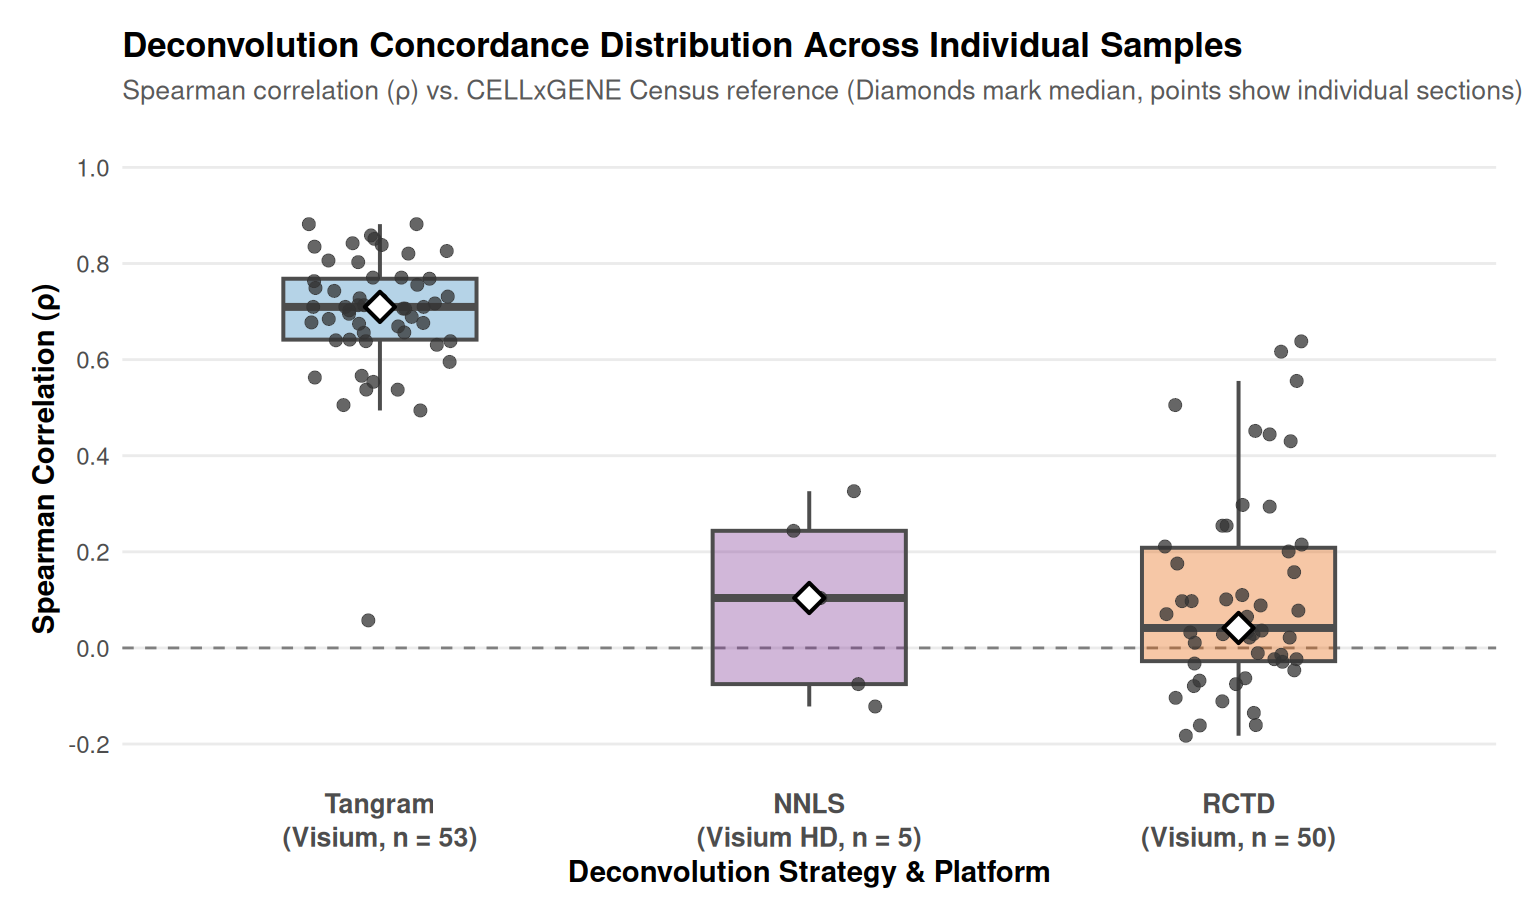
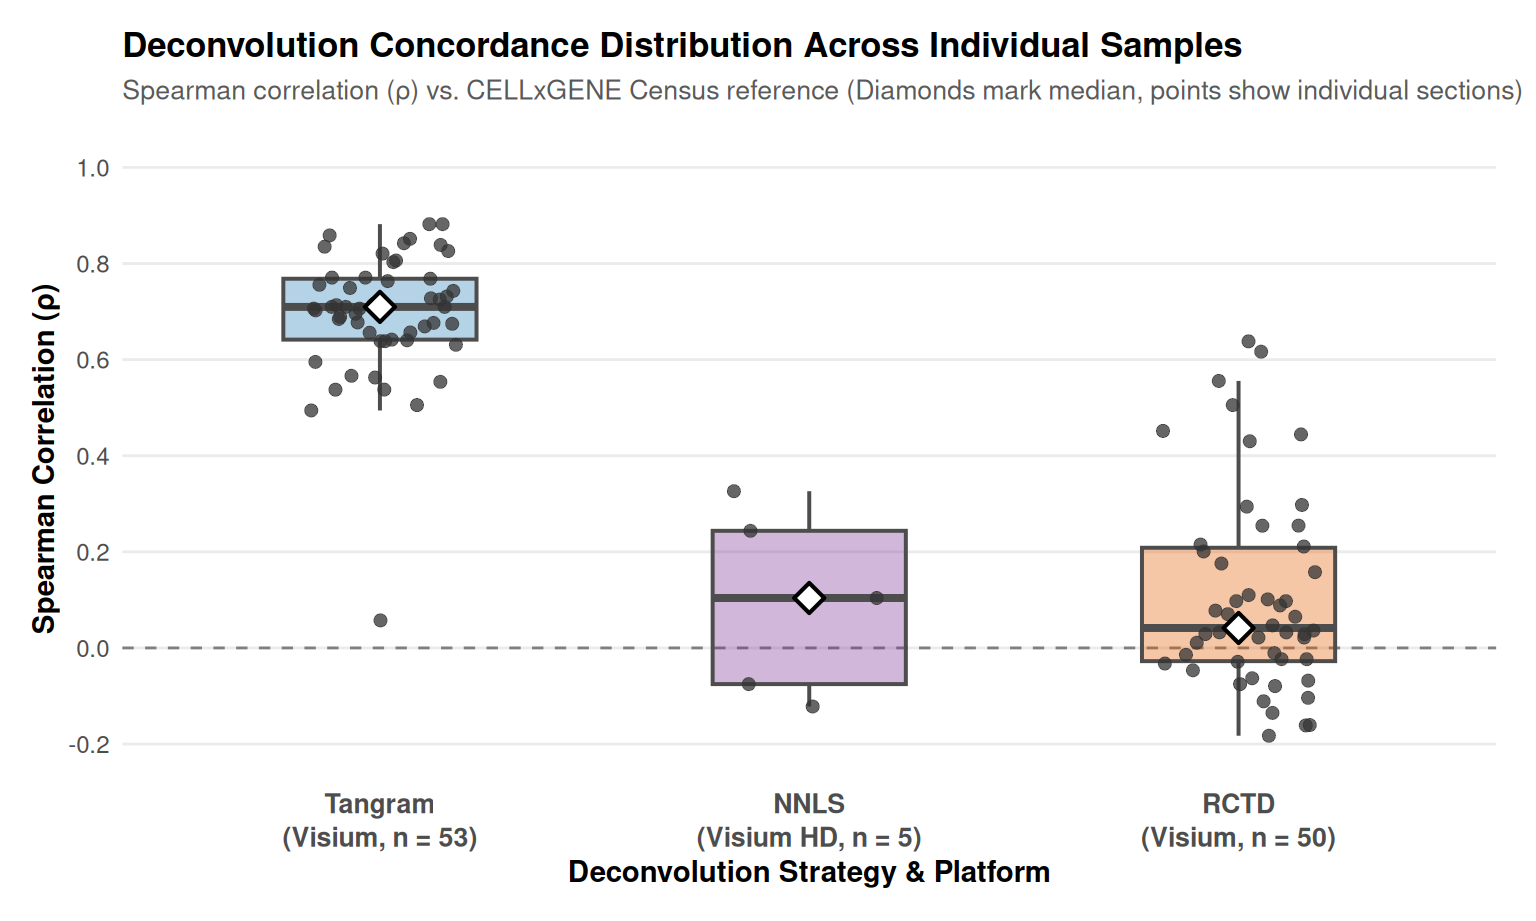
Renal spatial img credit

diff --git a/cases/renalspatial/01_data_at_hand.html b/cases/renalspatial/01_data_at_hand.html
@@ -543,8 +543,8 @@ analysis is built around.</p>
 <div id="the-quality-of-the-data-sample-by-sample"
 class="section level2">
 <h2>The quality of the data, sample by sample</h2>
-<div class="datatables html-widget html-fill-item" id="htmlwidget-0c2be0e70e4a9f6d4a1e" style="width:100%;height:auto;"></div>
-<script type="application/json" data-for="htmlwidget-0c2be0e70e4a9f6d4a1e">{"x":{"filter":"none","vertical":false,"caption":"<caption>All samples: units, genes, and per-unit QC.<\/caption>","data":[["GSM8551262","GSM8551263","GSM8551264","GSM8323120","GSM8323121","GSM8323122","GSM8323123","GSM8323124","GSM8323125","GSM8325615","GSM8325616","GSM8325617","GSM8325618","GSM8325619","GSM8325620","GSM8325621","GSM8325622","GSM8325623","GSM8325624","GSM8325625","GSM8325626","GSM8110784","GSM8110785","GSM8110786","GSM8110787","GSM8691119","GSM8691120","GSM8691121","GSM8691122","GSM8691123","GSM8691124","GSM8691125","GSM9045323","GSM9108683","GSM9108684","GSM9108685","GSM9155022","GSM9155023","GSM9155024","GSM9155025","GSM9231917","GSM9231918","GSM9231919","GSM9231920","GSM9231921","GSM9231922","GSM9231923","GSM9231924","GSM9231925","GSM9231926","GSM9231927","GSM9231928","GSM9247127","GSM9247128","GSM9247129","GSM9247130","GSM9247131","GSM9247132","GSM9247133","GSM9247134","GSM9247135","GSM9247136","GSM9247137","GSM9247138","GSM9467249","GSM9467250","GSM9467251","GSM9467252","GSM9579055","GSM9579056","GSM9579057","GSM9579058","GSM9802211","GSM9895920","GSM9895921","GSM9895922","GSM9895923","GSM9938089","GSM9938090","GSM9938091","GSM9938092","GSM9938093","GSM9938094","GSM9938095","GSM9938096","GSM9938097","GSM9938098","GSM9938099","GSM9938100","GSM9938101","GSM9938102","GSM9938103","GSM9938104","GSM9938105","GSM9938106","GSM9938107","GSM9938108","GSM9938109","GSM9938110","GSM9938111","GSM9938112","GSM9938113","GSM9938114","GSM9938115","GSM9938116","GSM9938117","GSM9938118","GSM9938119","GSM9938120","GSM9938121","GSM9938122","GSM9938123","GSM9938124","GSM9938125","GSM9938126","GSM9938127","GSM9938128","GSM9938129","GSM9938130","GSM9938131","GSM9938132","GSM9938133","GSM9938134","GSM9938135","GSM9938136","GSM9026963","GSM6047778","GSM6047779"],["human-kidney-dev","human-kidney-dev","human-kidney-dev","mouse-IRI-repair","mouse-IRI-repair","mouse-IRI-repair","mouse-IRI-repair","mouse-IRI-repair","mouse-IRI-repair","mouse-IRI-repair","mouse-IRI-repair","mouse-IRI-repair","mouse-IRI-repair","mouse-IRI-repair","mouse-IRI-repair","mouse-IRI-repair","mouse-IRI-repair","mouse-IRI-repair","mouse-IRI-repair","mouse-IRI-repair","mouse-IRI-repair","hyperuricemia-mouse","hyperuricemia-mouse","hyperuricemia-mouse","hyperuricemia-mouse","kidney-transplant-rejection","kidney-transplant-rejection","kidney-transplant-rejection","kidney-transplant-rejection","kidney-transplant-rejection","kidney-transplant-rejection","kidney-transplant-rejection","kidney-repair-matrix","ANCA-vasculitis","ANCA-vasculitis","ANCA-vasculitis","transplant-rejection-FCGR3A","transplant-rejection-FCGR3A","transplant-rejection-FCGR3A","transplant-rejection-FCGR3A","DKD-MEF2C","DKD-MEF2C","DKD-MEF2C","DKD-MEF2C","DKD-MEF2C","DKD-MEF2C","DKD-MEF2C","DKD-MEF2C","DKD-MEF2C","DKD-MEF2C","DKD-MEF2C","DKD-MEF2C","EPO-cell-neighborhood","EPO-cell-neighborhood","EPO-cell-neighborhood","EPO-cell-neighborhood","EPO-cell-neighborhood","EPO-cell-neighborhood","EPO-cell-neighborhood","EPO-cell-neighborhood","EPO-cell-neighborhood","EPO-cell-neighborhood","EPO-cell-neighborhood","EPO-cell-neighborhood","DKD-HIF-SGLT2i","DKD-HIF-SGLT2i","DKD-HIF-SGLT2i","DKD-HIF-SGLT2i","lupus-nephritis-mouse","lupus-nephritis-mouse","lupus-nephritis-mouse","lupus-nephritis-mouse","CAMR-scRNA-VisiumHD","hypertensive-nephropathy","hypertensive-nephropathy","hypertensive-nephropathy","hypertensive-nephropathy","CAMR-GeoMx","CAMR-GeoMx","CAMR-GeoMx","CAMR-GeoMx","CAMR-GeoMx","CAMR-GeoMx","CAMR-GeoMx","CAMR-GeoMx","CAMR-GeoMx","CAMR-GeoMx","CAMR-GeoMx","CAMR-GeoMx","CAMR-GeoMx","CAMR-GeoMx","CAMR-GeoMx","CAMR-GeoMx","CAMR-GeoMx","CAMR-GeoMx","CAMR-GeoMx","CAMR-GeoMx","CAMR-GeoMx","CAMR-GeoMx","CAMR-GeoMx","CAMR-GeoMx","CAMR-GeoMx","CAMR-GeoMx","CAMR-GeoMx","CAMR-GeoMx","CAMR-GeoMx","CAMR-GeoMx","CAMR-GeoMx","CAMR-GeoMx","CAMR-GeoMx","CAMR-GeoMx","CAMR-GeoMx","CAMR-GeoMx","CAMR-GeoMx","CAMR-GeoMx","CAMR-GeoMx","CAMR-GeoMx","CAMR-GeoMx","CAMR-GeoMx","CAMR-GeoMx","CAMR-GeoMx","CAMR-GeoMx","CAMR-GeoMx","CAMR-GeoMx","CAMR-GeoMx","kidney-PT-regen","kidney-PT-regen","kidney-PT-regen"],["cosmx","cosmx","cosmx","visium","visium","visium","visium","visium","visium","xenium","xenium","xenium","xenium","xenium","xenium","xenium","xenium","xenium","xenium","xenium","xenium","visium","visium","visium","visium","xenium","xenium","xenium","xenium","xenium","xenium","xenium","visium","visium","visium","visium","visium","visium","visium","visium","visium","visium","visium","visium","visium","visium","visium","visium","visium","visium","visium","visium","visium","visium","visium","visium","visium","visium","visium","visium","visium","visium","visium","visium","visium_hd","visium_hd","visium_hd","visium_hd","visium","visium","visium","visium","visium_hd","visium","visium","visium","visium","geomx","geomx","geomx","geomx","geomx","geomx","geomx","geomx","geomx","geomx","geomx","geomx","geomx","geomx","geomx","geomx","geomx","geomx","geomx","geomx","geomx","geomx","geomx","geomx","geomx","geomx","geomx","geomx","geomx","geomx","geomx","geomx","geomx","geomx","geomx","geomx","geomx","geomx","geomx","geomx","geomx","geomx","geomx","geomx","geomx","geomx","geomx","geomx","visium","visium","visium"],[230536,127022,118188,2855,3085,3392,3434,2754,3912,110946,84141,99679,113560,108757,112011,101118,96601,152366,147595,152437,126104,2650,2590,2528,3362,36680,35806,40136,49288,44837,35699,45779,3134,1413,892,1277,1048,1348,992,1129,1865,1373,437,977,531,1203,1682,1394,1479,4608,1929,4569,4024,4439,4290,4759,4768,4509,4808,4615,4726,4927,4330,4257,55464,68732,56779,112893,3345,3205,3336,3313,129552,4064,4826,4913,4031,1,1,1,1,1,1,1,1,1,1,1,1,1,1,1,1,1,1,1,1,1,1,1,1,1,1,1,1,1,1,1,1,1,1,1,1,1,1,1,1,1,1,1,1,1,1,1,1,992,950,1028],[995,995,995,19245,19248,19261,19278,19292,19283,300,299,300,300,300,300,300,300,300,300,300,300,17716,17760,17353,17528,541,541,541,541,541,541,541,15503,17315,17100,20398,18009,17997,17926,17863,15492,15292,18028,18045,18044,18056,18006,15288,15587,18053,18030,18046,16350,16469,15708,16026,15967,15786,15400,15252,15669,15804,16267,16115,15283,15635,15613,16200,16563,16539,15643,15558,15348,18826,18847,18898,18897,16916,18068,18551,18215,18684,17728,17852,18614,18274,18720,18551,18723,18473,18722,18076,18117,18247,18026,18236,18670,18720,18728,18729,18609,18664,18661,18696,18691,18511,18693,18490,18722,18727,18610,18709,18681,18730,18730,18656,18717,18680,18708,18517,18708,18726,18730,18730,18723,15006,15903,16233],[101,72,58,5299,5474,5300.5,6310,7856,5392,35,37,47,46,44,44,53,51,44,39,46,47,4487.5,4728.5,5978.5,5627.5,159,167,211,203,194,187,201,7160,1428,1704.5,5103,3570,1189,3860,2113,4152,4671,8935,10393,9884,9725,5397,2216.5,3483,7502.5,3236,2338,374,432,729,2131,4935.5,3395,3496.5,2956,2428,4030,757.5,459,55,42,44,43,1797,1729,934.5,834,129,54.5,160.5,72,61,16916,18068,18551,18215,18684,17728,17852,18614,18274,18720,18551,18723,18473,18722,18076,18117,18247,18026,18236,18670,18720,18728,18729,18609,18664,18661,18696,18691,18511,18693,18490,18722,18727,18610,18709,18681,18730,18730,18656,18717,18680,18708,18517,18708,18726,18730,18730,18723,1567,2301.5,2384.5],[144,95,76,11933,20000,15083.5,21096,23222.5,18169,88,104,144,135,125,127,153,140,104,80,126,131,16674,19599.5,37386,32038.5,2561,2681,3163,2849,2693,2508,2506,36954.5,3062,3204.5,16631,5761.5,1689.5,7178.5,3605,9274,10255,28761,47211,39539,40878,15017.5,3900.5,6928,22307,5794,3862,431.5,498,1043,4123,16015.5,7037,8062,6300,4912.5,9628,946,547,59,44,46,45,3271,3105,1437,1198,147,59,176,75,65,68998,118515,162799,132662,255664,99603,95321,143282,103849,260137,123114,250219,108683,250585,80498,86681,94530,74567,80663,131516,200122,248182,245531,135963,143566,133399,157397,160704,101602,179882,111102,209536,225437,111018,162018,140383,358600,1873987,125948,251586,197825,234604,108856,217968,304691,463283,408485,207770,2532.5,3560,4204]],"container":"<table class=\"display\">\n  <thead>\n    <tr>\n      <th>gsm<\/th>\n      <th>study<\/th>\n      <th>tier<\/th>\n      <th>n_units<\/th>\n      <th>n_genes<\/th>\n      <th>median_genes<\/th>\n      <th>median_counts<\/th>\n    <\/tr>\n  <\/thead>\n<\/table>","options":{"pageLength":25,"lengthMenu":[25,50,100],"columnDefs":[{"className":"dt-right","targets":[3,4,5,6]},{"name":"gsm","targets":0},{"name":"study","targets":1},{"name":"tier","targets":2},{"name":"n_units","targets":3},{"name":"n_genes","targets":4},{"name":"median_genes","targets":5},{"name":"median_counts","targets":6}],"order":[],"autoWidth":false,"orderClasses":false}},"evals":[],"jsHooks":[]}</script>
+<div class="datatables html-widget html-fill-item" id="htmlwidget-0eb632de7eebf4965a02" style="width:100%;height:auto;"></div>
+<script type="application/json" data-for="htmlwidget-0eb632de7eebf4965a02">{"x":{"filter":"none","vertical":false,"caption":"<caption>All samples: units, genes, and per-unit QC.<\/caption>","data":[["GSM8551262","GSM8551263","GSM8551264","GSM8323120","GSM8323121","GSM8323122","GSM8323123","GSM8323124","GSM8323125","GSM8325615","GSM8325616","GSM8325617","GSM8325618","GSM8325619","GSM8325620","GSM8325621","GSM8325622","GSM8325623","GSM8325624","GSM8325625","GSM8325626","GSM8110784","GSM8110785","GSM8110786","GSM8110787","GSM8691119","GSM8691120","GSM8691121","GSM8691122","GSM8691123","GSM8691124","GSM8691125","GSM9045323","GSM9108683","GSM9108684","GSM9108685","GSM9155022","GSM9155023","GSM9155024","GSM9155025","GSM9231917","GSM9231918","GSM9231919","GSM9231920","GSM9231921","GSM9231922","GSM9231923","GSM9231924","GSM9231925","GSM9231926","GSM9231927","GSM9231928","GSM9247127","GSM9247128","GSM9247129","GSM9247130","GSM9247131","GSM9247132","GSM9247133","GSM9247134","GSM9247135","GSM9247136","GSM9247137","GSM9247138","GSM9467249","GSM9467250","GSM9467251","GSM9467252","GSM9579055","GSM9579056","GSM9579057","GSM9579058","GSM9802211","GSM9895920","GSM9895921","GSM9895922","GSM9895923","GSM9938089","GSM9938090","GSM9938091","GSM9938092","GSM9938093","GSM9938094","GSM9938095","GSM9938096","GSM9938097","GSM9938098","GSM9938099","GSM9938100","GSM9938101","GSM9938102","GSM9938103","GSM9938104","GSM9938105","GSM9938106","GSM9938107","GSM9938108","GSM9938109","GSM9938110","GSM9938111","GSM9938112","GSM9938113","GSM9938114","GSM9938115","GSM9938116","GSM9938117","GSM9938118","GSM9938119","GSM9938120","GSM9938121","GSM9938122","GSM9938123","GSM9938124","GSM9938125","GSM9938126","GSM9938127","GSM9938128","GSM9938129","GSM9938130","GSM9938131","GSM9938132","GSM9938133","GSM9938134","GSM9938135","GSM9938136","GSM9026963","GSM6047778","GSM6047779"],["human-kidney-dev","human-kidney-dev","human-kidney-dev","mouse-IRI-repair","mouse-IRI-repair","mouse-IRI-repair","mouse-IRI-repair","mouse-IRI-repair","mouse-IRI-repair","mouse-IRI-repair","mouse-IRI-repair","mouse-IRI-repair","mouse-IRI-repair","mouse-IRI-repair","mouse-IRI-repair","mouse-IRI-repair","mouse-IRI-repair","mouse-IRI-repair","mouse-IRI-repair","mouse-IRI-repair","mouse-IRI-repair","hyperuricemia-mouse","hyperuricemia-mouse","hyperuricemia-mouse","hyperuricemia-mouse","kidney-transplant-rejection","kidney-transplant-rejection","kidney-transplant-rejection","kidney-transplant-rejection","kidney-transplant-rejection","kidney-transplant-rejection","kidney-transplant-rejection","kidney-repair-matrix","ANCA-vasculitis","ANCA-vasculitis","ANCA-vasculitis","transplant-rejection-FCGR3A","transplant-rejection-FCGR3A","transplant-rejection-FCGR3A","transplant-rejection-FCGR3A","DKD-MEF2C","DKD-MEF2C","DKD-MEF2C","DKD-MEF2C","DKD-MEF2C","DKD-MEF2C","DKD-MEF2C","DKD-MEF2C","DKD-MEF2C","DKD-MEF2C","DKD-MEF2C","DKD-MEF2C","EPO-cell-neighborhood","EPO-cell-neighborhood","EPO-cell-neighborhood","EPO-cell-neighborhood","EPO-cell-neighborhood","EPO-cell-neighborhood","EPO-cell-neighborhood","EPO-cell-neighborhood","EPO-cell-neighborhood","EPO-cell-neighborhood","EPO-cell-neighborhood","EPO-cell-neighborhood","DKD-HIF-SGLT2i","DKD-HIF-SGLT2i","DKD-HIF-SGLT2i","DKD-HIF-SGLT2i","lupus-nephritis-mouse","lupus-nephritis-mouse","lupus-nephritis-mouse","lupus-nephritis-mouse","CAMR-scRNA-VisiumHD","hypertensive-nephropathy","hypertensive-nephropathy","hypertensive-nephropathy","hypertensive-nephropathy","CAMR-GeoMx","CAMR-GeoMx","CAMR-GeoMx","CAMR-GeoMx","CAMR-GeoMx","CAMR-GeoMx","CAMR-GeoMx","CAMR-GeoMx","CAMR-GeoMx","CAMR-GeoMx","CAMR-GeoMx","CAMR-GeoMx","CAMR-GeoMx","CAMR-GeoMx","CAMR-GeoMx","CAMR-GeoMx","CAMR-GeoMx","CAMR-GeoMx","CAMR-GeoMx","CAMR-GeoMx","CAMR-GeoMx","CAMR-GeoMx","CAMR-GeoMx","CAMR-GeoMx","CAMR-GeoMx","CAMR-GeoMx","CAMR-GeoMx","CAMR-GeoMx","CAMR-GeoMx","CAMR-GeoMx","CAMR-GeoMx","CAMR-GeoMx","CAMR-GeoMx","CAMR-GeoMx","CAMR-GeoMx","CAMR-GeoMx","CAMR-GeoMx","CAMR-GeoMx","CAMR-GeoMx","CAMR-GeoMx","CAMR-GeoMx","CAMR-GeoMx","CAMR-GeoMx","CAMR-GeoMx","CAMR-GeoMx","CAMR-GeoMx","CAMR-GeoMx","CAMR-GeoMx","kidney-PT-regen","kidney-PT-regen","kidney-PT-regen"],["cosmx","cosmx","cosmx","visium","visium","visium","visium","visium","visium","xenium","xenium","xenium","xenium","xenium","xenium","xenium","xenium","xenium","xenium","xenium","xenium","visium","visium","visium","visium","xenium","xenium","xenium","xenium","xenium","xenium","xenium","visium","visium","visium","visium","visium","visium","visium","visium","visium","visium","visium","visium","visium","visium","visium","visium","visium","visium","visium","visium","visium","visium","visium","visium","visium","visium","visium","visium","visium","visium","visium","visium","visium_hd","visium_hd","visium_hd","visium_hd","visium","visium","visium","visium","visium_hd","visium","visium","visium","visium","geomx","geomx","geomx","geomx","geomx","geomx","geomx","geomx","geomx","geomx","geomx","geomx","geomx","geomx","geomx","geomx","geomx","geomx","geomx","geomx","geomx","geomx","geomx","geomx","geomx","geomx","geomx","geomx","geomx","geomx","geomx","geomx","geomx","geomx","geomx","geomx","geomx","geomx","geomx","geomx","geomx","geomx","geomx","geomx","geomx","geomx","geomx","geomx","visium","visium","visium"],[230536,127022,118188,2855,3085,3392,3434,2754,3912,110946,84141,99679,113560,108757,112011,101118,96601,152366,147595,152437,126104,2650,2590,2528,3362,36680,35806,40136,49288,44837,35699,45779,3134,1413,892,1277,1048,1348,992,1129,1865,1373,437,977,531,1203,1682,1394,1479,4608,1929,4569,4024,4439,4290,4759,4768,4509,4808,4615,4726,4927,4330,4257,55464,68732,56779,112893,3345,3205,3336,3313,129552,4064,4826,4913,4031,1,1,1,1,1,1,1,1,1,1,1,1,1,1,1,1,1,1,1,1,1,1,1,1,1,1,1,1,1,1,1,1,1,1,1,1,1,1,1,1,1,1,1,1,1,1,1,1,992,950,1028],[995,995,995,19245,19248,19261,19278,19292,19283,300,299,300,300,300,300,300,300,300,300,300,300,17716,17760,17353,17528,541,541,541,541,541,541,541,15503,17315,17100,20398,18009,17997,17926,17863,15492,15292,18028,18045,18044,18056,18006,15288,15587,18053,18030,18046,16350,16469,15708,16026,15967,15786,15400,15252,15669,15804,16267,16115,15283,15635,15613,16200,16563,16539,15643,15558,15348,18826,18847,18898,18897,16916,18068,18551,18215,18684,17728,17852,18614,18274,18720,18551,18723,18473,18722,18076,18117,18247,18026,18236,18670,18720,18728,18729,18609,18664,18661,18696,18691,18511,18693,18490,18722,18727,18610,18709,18681,18730,18730,18656,18717,18680,18708,18517,18708,18726,18730,18730,18723,15006,15903,16233],[101,72,58,5299,5474,5300.5,6310,7856,5392,35,37,47,46,44,44,53,51,44,39,46,47,4487.5,4728.5,5978.5,5627.5,159,167,211,203,194,187,201,7160,1428,1704.5,5103,3570,1189,3860,2113,4152,4671,8935,10393,9884,9725,5397,2216.5,3483,7502.5,3236,2338,374,432,729,2131,4935.5,3395,3496.5,2956,2428,4030,757.5,459,55,42,44,43,1797,1729,934.5,834,129,54.5,160.5,72,61,16916,18068,18551,18215,18684,17728,17852,18614,18274,18720,18551,18723,18473,18722,18076,18117,18247,18026,18236,18670,18720,18728,18729,18609,18664,18661,18696,18691,18511,18693,18490,18722,18727,18610,18709,18681,18730,18730,18656,18717,18680,18708,18517,18708,18726,18730,18730,18723,1567,2301.5,2384.5],[144,95,76,11933,20000,15083.5,21096,23222.5,18169,88,104,144,135,125,127,153,140,104,80,126,131,16674,19599.5,37386,32038.5,2561,2681,3163,2849,2693,2508,2506,36954.5,3062,3204.5,16631,5761.5,1689.5,7178.5,3605,9274,10255,28761,47211,39539,40878,15017.5,3900.5,6928,22307,5794,3862,431.5,498,1043,4123,16015.5,7037,8062,6300,4912.5,9628,946,547,59,44,46,45,3271,3105,1437,1198,147,59,176,75,65,68998,118515,162799,132662,255664,99603,95321,143282,103849,260137,123114,250219,108683,250585,80498,86681,94530,74567,80663,131516,200122,248182,245531,135963,143566,133399,157397,160704,101602,179882,111102,209536,225437,111018,162018,140383,358600,1873987,125948,251586,197825,234604,108856,217968,304691,463283,408485,207770,2532.5,3560,4204]],"container":"<table class=\"display\">\n  <thead>\n    <tr>\n      <th>gsm<\/th>\n      <th>study<\/th>\n      <th>tier<\/th>\n      <th>n_units<\/th>\n      <th>n_genes<\/th>\n      <th>median_genes<\/th>\n      <th>median_counts<\/th>\n    <\/tr>\n  <\/thead>\n<\/table>","options":{"pageLength":25,"lengthMenu":[25,50,100],"columnDefs":[{"className":"dt-right","targets":[3,4,5,6]},{"name":"gsm","targets":0},{"name":"study","targets":1},{"name":"tier","targets":2},{"name":"n_units","targets":3},{"name":"n_genes","targets":4},{"name":"median_genes","targets":5},{"name":"median_counts","targets":6}],"order":[],"autoWidth":false,"orderClasses":false}},"evals":[],"jsHooks":[]}</script>
 <p>Quality varies with platform in the way the physics predicts. Imaging
 platforms (Xenium, CosMx) detect <strong>35–211 median genes per
 cell</strong>, because a panel is limited and a single cell is sparse.

diff --git a/cases/renalspatial/index.html b/cases/renalspatial/index.html
@@ -332,9 +332,8 @@ spatial-transcriptomics samples generated across five platforms</h3>
 
 <hr />
 <div class="float">
-<img src="img/cover_kidney_option1.jpg"
-alt="The Many Faces of the Kidney by GEMINI" />
-<div class="figcaption">The Many Faces of the Kidney by GEMINI</div>
+<img src="img/cover_kidney_option1.jpg" alt="Image Credit: GEMINI" />
+<div class="figcaption">Image Credit: GEMINI</div>
 </div>
 <hr />
 <div id="prologue" class="section level1">
